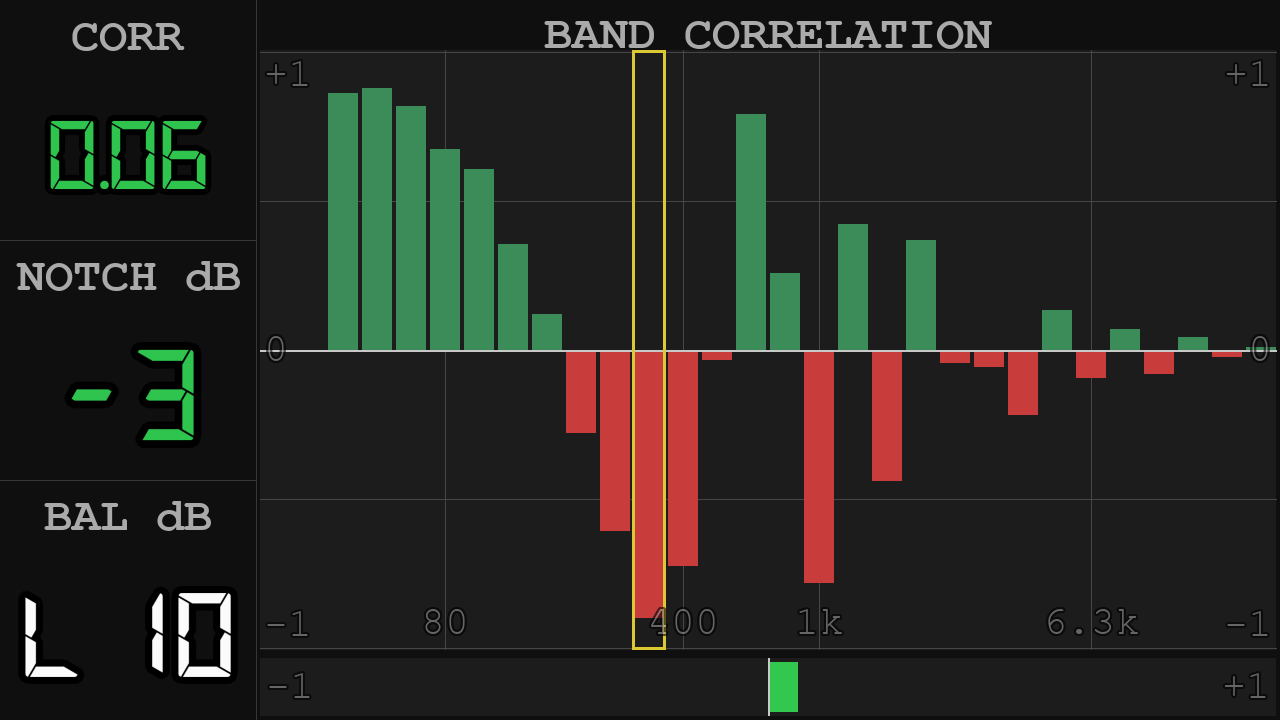
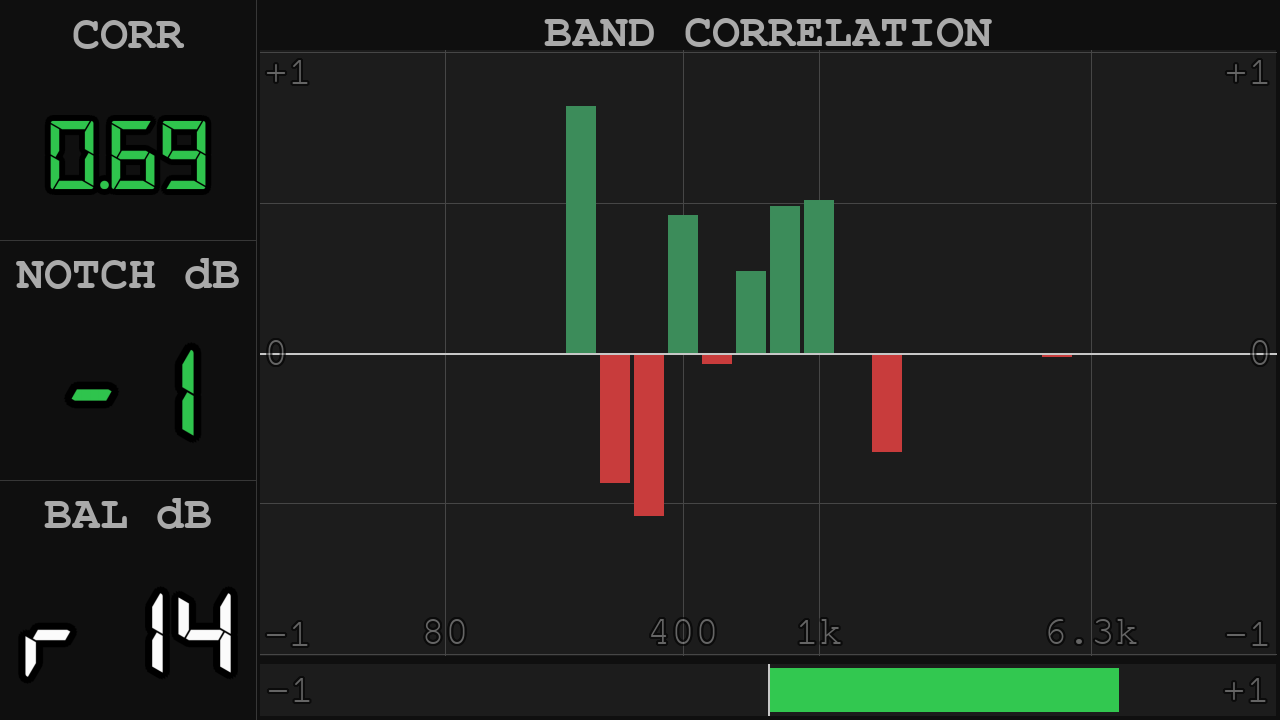
docs: PHASE 範例圖改用座談實拍（GONIO 13:52:40、BAND 13:44:04）
README 圖說註明 MIN 紅色是說話時的正常現象；補記上一輪漏寫的 implementation-notes。

diff --git a/implementation-notes.md b/implementation-notes.md
@@ -35,6 +35,9 @@
 - 同時把 PHASE 的 PM5D 接法改成使用者現場的做法：MIX 18 PAN RIGHT、MIX 19 PAN LEFT，第一組麥克風→MIX 18、第二組→MIX 19，MONITOR DEFINE 開兩個 BUS 選 18＋19；不設 VARI、不配對。驗證改成「只開第一組，應該只有 R 在跳」。原本寫的「送出點 PRE」也隨使用者版本拿掉
 - 00:48 使用者更正：MIX 18 是 LEFT、MIX 19 是 RIGHT（第一組→L），送出點用 POST（接近節目實際混音）。驗證改回「只開第一組，應該只有 L 在跳」
 - 表格在手機上本來就能左右滑（`.tw` overflow-x），但手機捲軸平常隱藏、看不出來 → 加 CSS 捲動陰影：右緣有亮影代表還有內容，滑到底亮影被蓋掉。純 CSS（background-attachment local／scroll），不用 JS
+- 00:52 遙控頁每個畫面下方放範例圖（使用者要給第一次用的人對照）。跟說明頁共用 Pi 的 `assets/`，不另存一份；PHASE 依子頁換 `phase_gonio.png`／`phase_band.png`，README 畫面四也補上這兩張
+- 範例圖只在換畫面時才改 `src`，不然每 1.5 秒輪詢都會讓 GIF 從頭播。圖載入失敗（assets 沒部署）就連說明文字一起藏起來
+- 01:01 PHASE 範例圖原本用 `check_phase.py` 測試訊號，使用者看座談實拍候選後交給我挑 → GONIO＝13:52:40（CORR 0.59，斜線乾淨）、BAND＝13:44:04（CORR 0.69、NOTCH −1）。實拍比測試訊號接近現場樣子；代價是 MIN 一定是紅的（說話時 3 秒內總有低點），README 圖說註明是正常現象。只有響度計畫面、無電視台素材，可進公開 repo
 
 ## 2026-11-25 16:58：手機遙控 QR 卡 `tools/make_qr_card.py`
 

diff --git a/README.md b/README.md
@@ -323,7 +323,7 @@ PM5D 的做法（不用設 VARI、不用配對）：MIX 18 的 PAN 打 LEFT、MI
 
 ![PHASE BAND 頁](https://raw.githubusercontent.com/AzureRush/lufsmeterforpi/refs/heads/main/assets/phase_band.png)
 
-（範例是測試訊號 `test_audio/phase_test.wav` 的「正常擺位」段：兩支麥克風收同一個聲音、音量差 10 dB，`tools/check_phase.py` 產生）
+（範例是 2026-11-25 兩人座談的實拍：右聲道那支麥克風的人在講，左聲道那支收到漏音，所以 BAL 偏 r、斜線往 R 那側傾。說話時 MIN (3") 出現紅色負數是正常的，3 秒內總會有幾個瞬間對不上）
 
 ### 怎麼看 GONIOMETER
 
